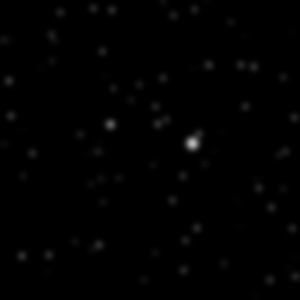
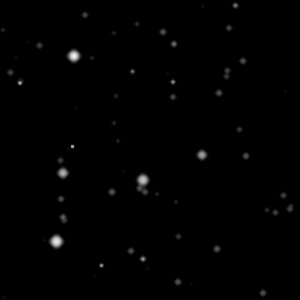
Add depth blur, export images to ./out

diff --git a/generate_starmaps.py b/generate_starmaps.py
@@ -10,7 +10,7 @@ starColourMinMax = (150, 255)
 starSizeMinMax = (1, 5)
 primaryStarSizeMinMax = (8, 12)
 starCountMinMax = (6, 130)
-primaryStarCountMinMax = (4, 8)
+primaryStarCountMinMax = (3, 8)
 primaryStarBorder = 50
 
 mapCount = 0
@@ -21,12 +21,13 @@ def primaryStarBoundsLimit(num):
 
 for starmap in range(STARMAPCOUNT):
     im = Image.new('RGB', (imgSize, imgSize), (backColour, backColour, backColour))
-    draw = ImageDraw.Draw(im)
+    
 
     maxStars = random.randint(starCountMinMax[0], starCountMinMax[1])
     primaryStarCount = random.randint(primaryStarCountMinMax[0], primaryStarCountMinMax[1])
 
     for star in range(maxStars):
+        draw = ImageDraw.Draw(im)
         if starCount < primaryStarCount:
             starSize = random.randint(primaryStarSizeMinMax[0], primaryStarSizeMinMax[1])
             x0 = primaryStarBoundsLimit(random.randint(0,imgSize))
@@ -43,8 +44,8 @@ for starmap in range(STARMAPCOUNT):
         starColour = random.randint(starColourMinMax[0], starColourMinMax[1])
         draw.ellipse((x0, y0, x1, y1), fill=(starColour, starColour, starColour), outline=(0, 0, 0))
         starCount += 1
-
-    im = im.filter(ImageFilter.GaussianBlur(3))
-    im.save(str(mapCount) + '.jpg', quality=95)
+        im = im.filter(ImageFilter.GaussianBlur(.5))
+    
+    im.save('./out/' + str(mapCount) + '.jpg', quality=95)
     mapCount += 1
     starCount = 0
